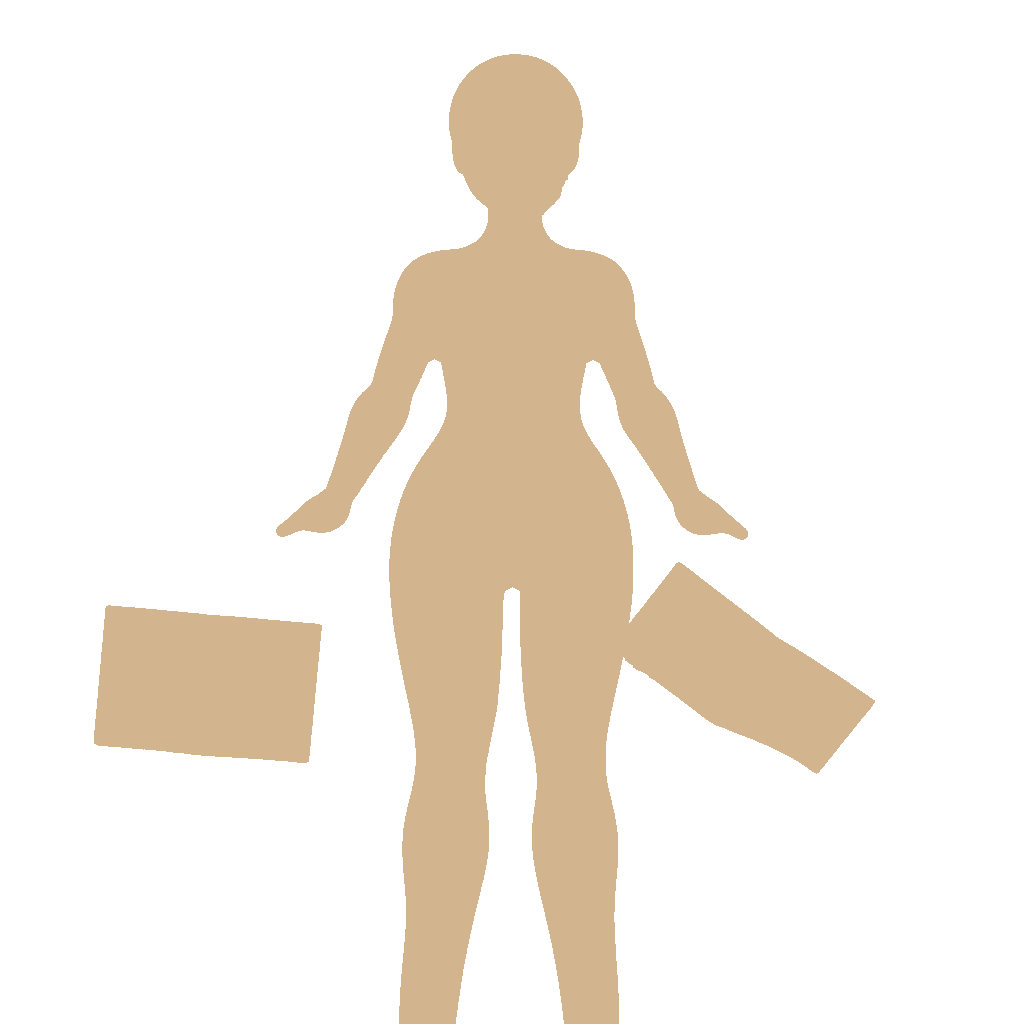
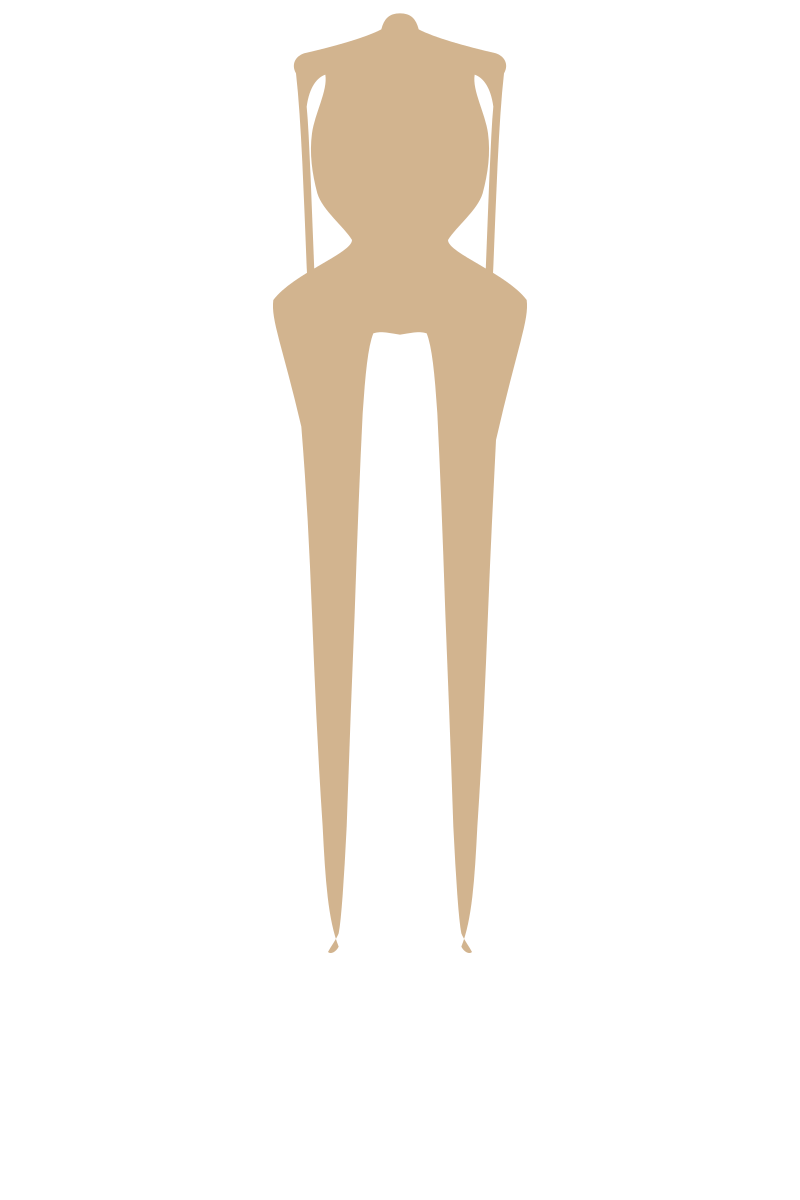
regenerated uniform paper-doll body PNGs, removed face.png

Changed region(s): [[0.25, 0.0, 0.8438, 1.0], [0.0938, 0.5938, 0.3125, 0.75]]

diff --git a/gen_bodies.py b/gen_bodies.py
@@ -1,0 +1,286 @@
+#!/usr/bin/env python3
+"""Generate clean, uniform paper-doll body silhouettes as PNG."""
+
+import cairosvg
+from PIL import Image
+import io
+
+SKIN_COLOR = '#d2b48f'  # Tan, uniform flat color
+OUT_W, OUT_H = 800, 1200  # Consistent output size
+
+def make_svg(outline_path, view_w, view_h):
+    """Wrap a path in SVG with transparent bg."""
+    return f'''<svg xmlns="http://www.w3.org/2000/svg" viewBox="0 0 {view_w} {view_h}" width="{view_w}" height="{view_h}">
+<path d="{outline_path}" fill="{SKIN_COLOR}" />
+</svg>'''
+
+def male_body():
+    """Generate male V-taper paper doll silhouette SVG path.
+    ViewBox: 400 x 900. Center at x=200.
+    Flat tan, no outlines, no shading.
+    Body from top of neck (y=10) to feet (y=710).
+    """
+    # Right-side profile (x off center +), mirrored for left
+    cx = 200
+    path_parts = []
+    
+    # Start at top center of neck
+    path_parts.append(f'M {cx} 10')
+    
+    # ── LEFT SIDE (from top to bottom) ──
+    # Neck left
+    path_parts.append(f'C {cx-8} 10, {cx-14} 14, {cx-16} 22')
+    # Shoulder slope out
+    path_parts.append(f'C {cx-30} 28, {cx-65} 35, {cx-85} 40')
+    # Shoulder curve down
+    path_parts.append(f'C {cx-92} 42, {cx-95} 48, {cx-92} 55')
+    # Upper arm outer
+    path_parts.append(f'C {cx-88} 90, {cx-84} 160, {cx-82} 210')
+    # Forearm
+    path_parts.append(f'C {cx-80} 260, {cx-78} 300, {cx-74} 320')
+    # Hand tip
+    path_parts.append(f'C {cx-73} 330, {cx-70} 335, {cx-68} 332')
+    # Hand inner (back up arm)
+    path_parts.append(f'C {cx-72} 310, {cx-74} 270, {cx-76} 220')
+    # Inner arm
+    path_parts.append(f'C {cx-78} 170, {cx-80} 110, {cx-82} 80')
+    # Armpit
+    path_parts.append(f'C {cx-80} 65, {cx-72} 58, {cx-68} 56')
+    # Torso side: chest/ribcage
+    path_parts.append(f'C {cx-66} 70, {cx-64} 90, {cx-62} 110')
+    # Waist (narrow for V-taper)
+    path_parts.append(f'C {cx-60} 130, {cx-58} 155, {cx-52} 175')
+    # Hip (narrow for male)
+    path_parts.append(f'C {cx-50} 195, {cx-52} 210, {cx-54} 230')
+    # Upper outer thigh
+    path_parts.append(f'C {cx-54} 260, {cx-52} 310, {cx-50} 380')
+    # Outer knee
+    path_parts.append(f'C {cx-49} 430, {cx-48} 470, {cx-46} 510')
+    # Outer calf
+    path_parts.append(f'C {cx-44} 560, {cx-42} 610, {cx-40} 660')
+    # Outer ankle
+    path_parts.append(f'C {cx-39} 685, {cx-40} 700, {cx-46} 710')
+    # Left foot bottom (across)
+    path_parts.append(f'C {cx-50} 714, {cx-55} 716, {cx-58} 714')
+    # Foot inner
+    path_parts.append(f'C {cx-56} 710, {cx-52} 705, {cx-50} 700')
+    # Inner ankle
+    path_parts.append(f'C {cx-48} 690, {cx-46} 660, {cx-44} 630')
+    # Inner calf
+    path_parts.append(f'C {cx-42} 580, {cx-40} 530, {cx-38} 490')
+    # Inner thigh
+    path_parts.append(f'C {cx-36} 440, {cx-34} 390, {cx-32} 350')
+    # Upper inner thigh
+    path_parts.append(f'C {cx-30} 310, {cx-28} 280, {cx-26} 260')
+    # Groin/crotch
+    path_parts.append(f'C {cx-24} 250, {cx-20} 248, {cx-16} 250')
+    # Crotch curve (between legs)
+    path_parts.append(f'C {cx-10} 253, {cx-4} 255, {cx} 255')
+    # ── RIGHT SIDE (mirror, from bottom to top) ──
+    path_parts.append(f'C {cx+4} 255, {cx+10} 253, {cx+16} 250')
+    # Right inner thigh up
+    path_parts.append(f'C {cx+20} 248, {cx+24} 250, {cx+26} 260')
+    path_parts.append(f'C {cx+28} 280, {cx+30} 310, {cx+32} 350')
+    path_parts.append(f'C {cx+34} 390, {cx+36} 440, {cx+38} 490')
+    path_parts.append(f'C {cx+40} 530, {cx+42} 580, {cx+44} 630')
+    path_parts.append(f'C {cx+46} 660, {cx+48} 690, {cx+50} 700')
+    # Right foot
+    path_parts.append(f'C {cx+52} 705, {cx+56} 710, {cx+58} 714')
+    path_parts.append(f'C {cx+55} 716, {cx+50} 714, {cx+46} 710')
+    path_parts.append(f'C {cx+40} 700, {cx+39} 685, {cx+40} 660')
+    path_parts.append(f'C {cx+42} 610, {cx+44} 560, {cx+46} 510')
+    path_parts.append(f'C {cx+48} 470, {cx+49} 430, {cx+50} 380')
+    # Right outer thigh up
+    path_parts.append(f'C {cx+52} 310, {cx+54} 260, {cx+54} 230')
+    # Right hip
+    path_parts.append(f'C {cx+52} 210, {cx+50} 195, {cx+52} 175')
+    # Right waist
+    path_parts.append(f'C {cx+58} 155, {cx+60} 130, {cx+62} 110')
+    # Right chest/ribcage
+    path_parts.append(f'C {cx+64} 90, {cx+66} 70, {cx+68} 56')
+    # Right armpit
+    path_parts.append(f'C {cx+72} 58, {cx+80} 65, {cx+82} 80')
+    # Inner right arm
+    path_parts.append(f'C {cx+80} 110, {cx+78} 170, {cx+76} 220')
+    # Right hand inner
+    path_parts.append(f'C {cx+74} 270, {cx+72} 310, {cx+68} 332')
+    path_parts.append(f'C {cx+70} 335, {cx+73} 330, {cx+74} 320')
+    # Right forearm
+    path_parts.append(f'C {cx+78} 300, {cx+80} 260, {cx+82} 210')
+    # Upper right arm
+    path_parts.append(f'C {cx+84} 160, {cx+88} 90, {cx+92} 55')
+    # Right shoulder
+    path_parts.append(f'C {cx+95} 48, {cx+92} 42, {cx+85} 40')
+    path_parts.append(f'C {cx+65} 35, {cx+30} 28, {cx+16} 22')
+    # Right neck
+    path_parts.append(f'C {cx+14} 14, {cx+8} 10, {cx} 10')
+    
+    return ' '.join(path_parts), 400, 900
+
+
+def female_body():
+    """Generate female coke-bottle paper doll silhouette SVG path.
+    ViewBox: 400 x 900. Center at x=200.
+    Flat tan, no outlines, no shading.
+    """
+    cx = 200
+    path_parts = []
+    
+    # Start at top center of neck
+    path_parts.append(f'M {cx} 10')
+    
+    # ── LEFT SIDE ──
+    # Neck left
+    path_parts.append(f'C {cx-8} 10, {cx-12} 14, {cx-14} 22')
+    # Shoulder (less broad than male)
+    path_parts.append(f'C {cx-25} 28, {cx-50} 35, {cx-72} 40')
+    # Shoulder curve
+    path_parts.append(f'C {cx-78} 42, {cx-82} 48, {cx-78} 55')
+    # Upper arm outer
+    path_parts.append(f'C {cx-74} 90, {cx-72} 150, {cx-70} 200')
+    # Forearm
+    path_parts.append(f'C {cx-68} 240, {cx-66} 280, {cx-62} 305')
+    # Hand
+    path_parts.append(f'C {cx-60} 315, {cx-58} 320, {cx-56} 318')
+    # Hand inner
+    path_parts.append(f'C {cx-60} 298, {cx-62} 260, {cx-64} 210')
+    # Inner arm
+    path_parts.append(f'C {cx-66} 160, {cx-68} 100, {cx-70} 80')
+    # Armpit
+    path_parts.append(f'C {cx-68} 65, {cx-62} 58, {cx-56} 56')
+    # Torso: bust area (fuller)
+    path_parts.append(f'C {cx-54} 68, {cx-64} 85, {cx-66} 100')
+    # Bust curve (moderate)
+    path_parts.append(f'C {cx-68} 115, {cx-66} 130, {cx-62} 145')
+    # Waist (narrow hourglass)
+    path_parts.append(f'C {cx-58} 158, {cx-42} 170, {cx-36} 180')
+    # Hip curve out (wide coke-bottle flare)
+    path_parts.append(f'C {cx-36} 190, {cx-80} 205, {cx-95} 225')
+    # Upper outer thigh (taper from hips)
+    path_parts.append(f'C {cx-97} 240, {cx-88} 260, {cx-74} 320')
+    # Outer knee
+    path_parts.append(f'C {cx-70} 370, {cx-68} 410, {cx-66} 460')
+    # Outer calf
+    path_parts.append(f'C {cx-64} 510, {cx-62} 560, {cx-58} 620')
+    # Outer ankle
+    path_parts.append(f'C {cx-56} 660, {cx-54} 690, {cx-46} 710')
+    # Left foot
+    path_parts.append(f'C {cx-48} 714, {cx-52} 716, {cx-54} 714')
+    path_parts.append(f'C {cx-52} 710, {cx-48} 705, {cx-46} 700')
+    # Inner ankle
+    path_parts.append(f'C {cx-44} 690, {cx-42} 660, {cx-40} 620')
+    # Inner calf
+    path_parts.append(f'C {cx-38} 560, {cx-36} 510, {cx-34} 460')
+    # Inner thigh
+    path_parts.append(f'C {cx-32} 400, {cx-30} 350, {cx-28} 310')
+    path_parts.append(f'C {cx-26} 280, {cx-24} 260, {cx-20} 250')
+    # Crotch curve
+    path_parts.append(f'C {cx-14} 248, {cx-7} 250, {cx} 251')
+    
+    # ── RIGHT SIDE (mirror) ──
+    path_parts.append(f'C {cx+7} 250, {cx+14} 248, {cx+20} 250')
+    path_parts.append(f'C {cx+24} 260, {cx+26} 280, {cx+28} 310')
+    path_parts.append(f'C {cx+30} 350, {cx+32} 400, {cx+34} 460')
+    path_parts.append(f'C {cx+36} 510, {cx+38} 560, {cx+40} 620')
+    path_parts.append(f'C {cx+42} 660, {cx+44} 690, {cx+46} 700')
+    # Right foot
+    path_parts.append(f'C {cx+48} 705, {cx+52} 710, {cx+54} 714')
+    path_parts.append(f'C {cx+52} 716, {cx+48} 714, {cx+46} 710')
+    path_parts.append(f'C {cx+54} 690, {cx+56} 660, {cx+58} 620')
+    path_parts.append(f'C {cx+62} 560, {cx+64} 510, {cx+66} 460')
+    path_parts.append(f'C {cx+68} 410, {cx+70} 370, {cx+72} 330')
+    path_parts.append(f'C {cx+88} 260, {cx+97} 240, {cx+95} 225')
+    path_parts.append(f'C {cx+80} 205, {cx+36} 190, {cx+36} 180')
+    path_parts.append(f'C {cx+42} 170, {cx+58} 158, {cx+62} 145')
+    path_parts.append(f'C {cx+66} 130, {cx+68} 115, {cx+66} 100')
+    path_parts.append(f'C {cx+64} 85, {cx+54} 68, {cx+56} 56')
+    # Right armpit
+    path_parts.append(f'C {cx+62} 58, {cx+68} 65, {cx+70} 80')
+    path_parts.append(f'C {cx+68} 100, {cx+66} 160, {cx+64} 210')
+    # Right hand
+    path_parts.append(f'C {cx+62} 260, {cx+60} 298, {cx+56} 318')
+    path_parts.append(f'C {cx+58} 320, {cx+60} 315, {cx+62} 305')
+    path_parts.append(f'C {cx+66} 280, {cx+68} 240, {cx+70} 200')
+    path_parts.append(f'C {cx+72} 150, {cx+74} 90, {cx+78} 55')
+    # Right shoulder
+    path_parts.append(f'C {cx+82} 48, {cx+78} 42, {cx+72} 40')
+    path_parts.append(f'C {cx+50} 35, {cx+25} 28, {cx+14} 22')
+    path_parts.append(f'C {cx+12} 14, {cx+8} 10, {cx} 10')
+    
+    return ' '.join(path_parts), 400, 900
+
+
+def render_to_png(path_str, view_w, view_h, output_path, target_w, target_h):
+    """Render SVG path to PNG at target resolution."""
+    svg_content = make_svg(path_str, view_w, view_h)
+    
+    # Render to PNG at viewBox resolution via cairosvg
+    png_data = cairosvg.svg2png(bytestring=svg_content.encode('utf-8'),
+                                output_width=target_w, output_height=target_h)
+    
+    # Load with PIL and ensure proper format
+    img = Image.open(io.BytesIO(png_data))
+    # Convert to proper RGBA
+    img = img.convert('RGBA')
+    img.save(output_path, 'PNG')
+    
+    # Verify
+    loaded = Image.open(output_path)
+    print(f'{output_path}: {loaded.size} mode={loaded.mode}')
+    
+    # Verify uniformity
+    pixels = list(loaded.getdata())
+    colors = [p for p in pixels if p[3] > 0]
+    if colors:
+        r_vals = [c[0] for c in colors]
+        g_vals = [c[1] for c in colors]
+        b_vals = [c[2] for c in colors]
+        print(f'  Mean: ({sum(r_vals)//len(r_vals)}, {sum(g_vals)//len(g_vals)}, {sum(b_vals)//len(b_vals)})')
+        print(f'  Pixels: {len(colors)} opaque out of {len(pixels)}')
+        r_range = max(r_vals) - min(r_vals)
+        print(f'  Color range: {r_range} (0 = perfect uniform)')
+    
+    # Find visible bounds
+    w, h = loaded.size
+    xmin, xmax, ymin, ymax = w, 0, h, 0
+    for y in range(h):
+        for x in range(w):
+            if loaded.getpixel((x, y))[3] > 10:
+                if x < xmin: xmin = x
+                if x > xmax: xmax = x
+                if y < ymin: ymin = y
+                if y > ymax: ymax = y
+    
+    body_w = xmax - xmin + 1
+    body_h = ymax - ymin + 1
+    print(f'  Visible bounds: x={xmin}-{xmax}, y={ymin}-{ymax}')
+    print(f'  Body size: {body_w}x{body_h}')
+    print(f'  Center: ({((xmin+xmax)/2):.1f}, {((ymin+ymax)/2):.1f})')
+    
+    # Width profile
+    for frac in [0.2, 0.35, 0.5, 0.65, 0.8]:
+        y = int(ymin + (ymax-ymin)*frac)
+        xs = [x for x in range(xmin, xmax+1) if loaded.getpixel((x, y))[3] > 10]
+        if xs:
+            width = xs[-1] - xs[0]
+            ctr = (xs[0] + xs[-1]) / 2
+            print(f'    y={frac:.2f}: width={width}px, center={ctr:.1f}')
+    
+    return img
+
+
+if __name__ == '__main__':
+    import os
+    out_dir = os.path.dirname(os.path.abspath(__file__))
+    
+    print("=== Generating Male Body (V-taper) ===")
+    m_path, m_w, m_h = male_body()
+    render_to_png(m_path, m_w, m_h, os.path.join(out_dir, 'body.png'), OUT_W, OUT_H)
+    
+    print()
+    print("=== Generating Female Body (Coke bottle) ===")
+    f_path, f_w, f_h = female_body()
+    render_to_png(f_path, f_w, f_h, os.path.join(out_dir, 'body2.png'), OUT_W, OUT_H)
+    
+    print()
+    print("Done! Both bodies generated at {}x{}".format(OUT_W, OUT_H))